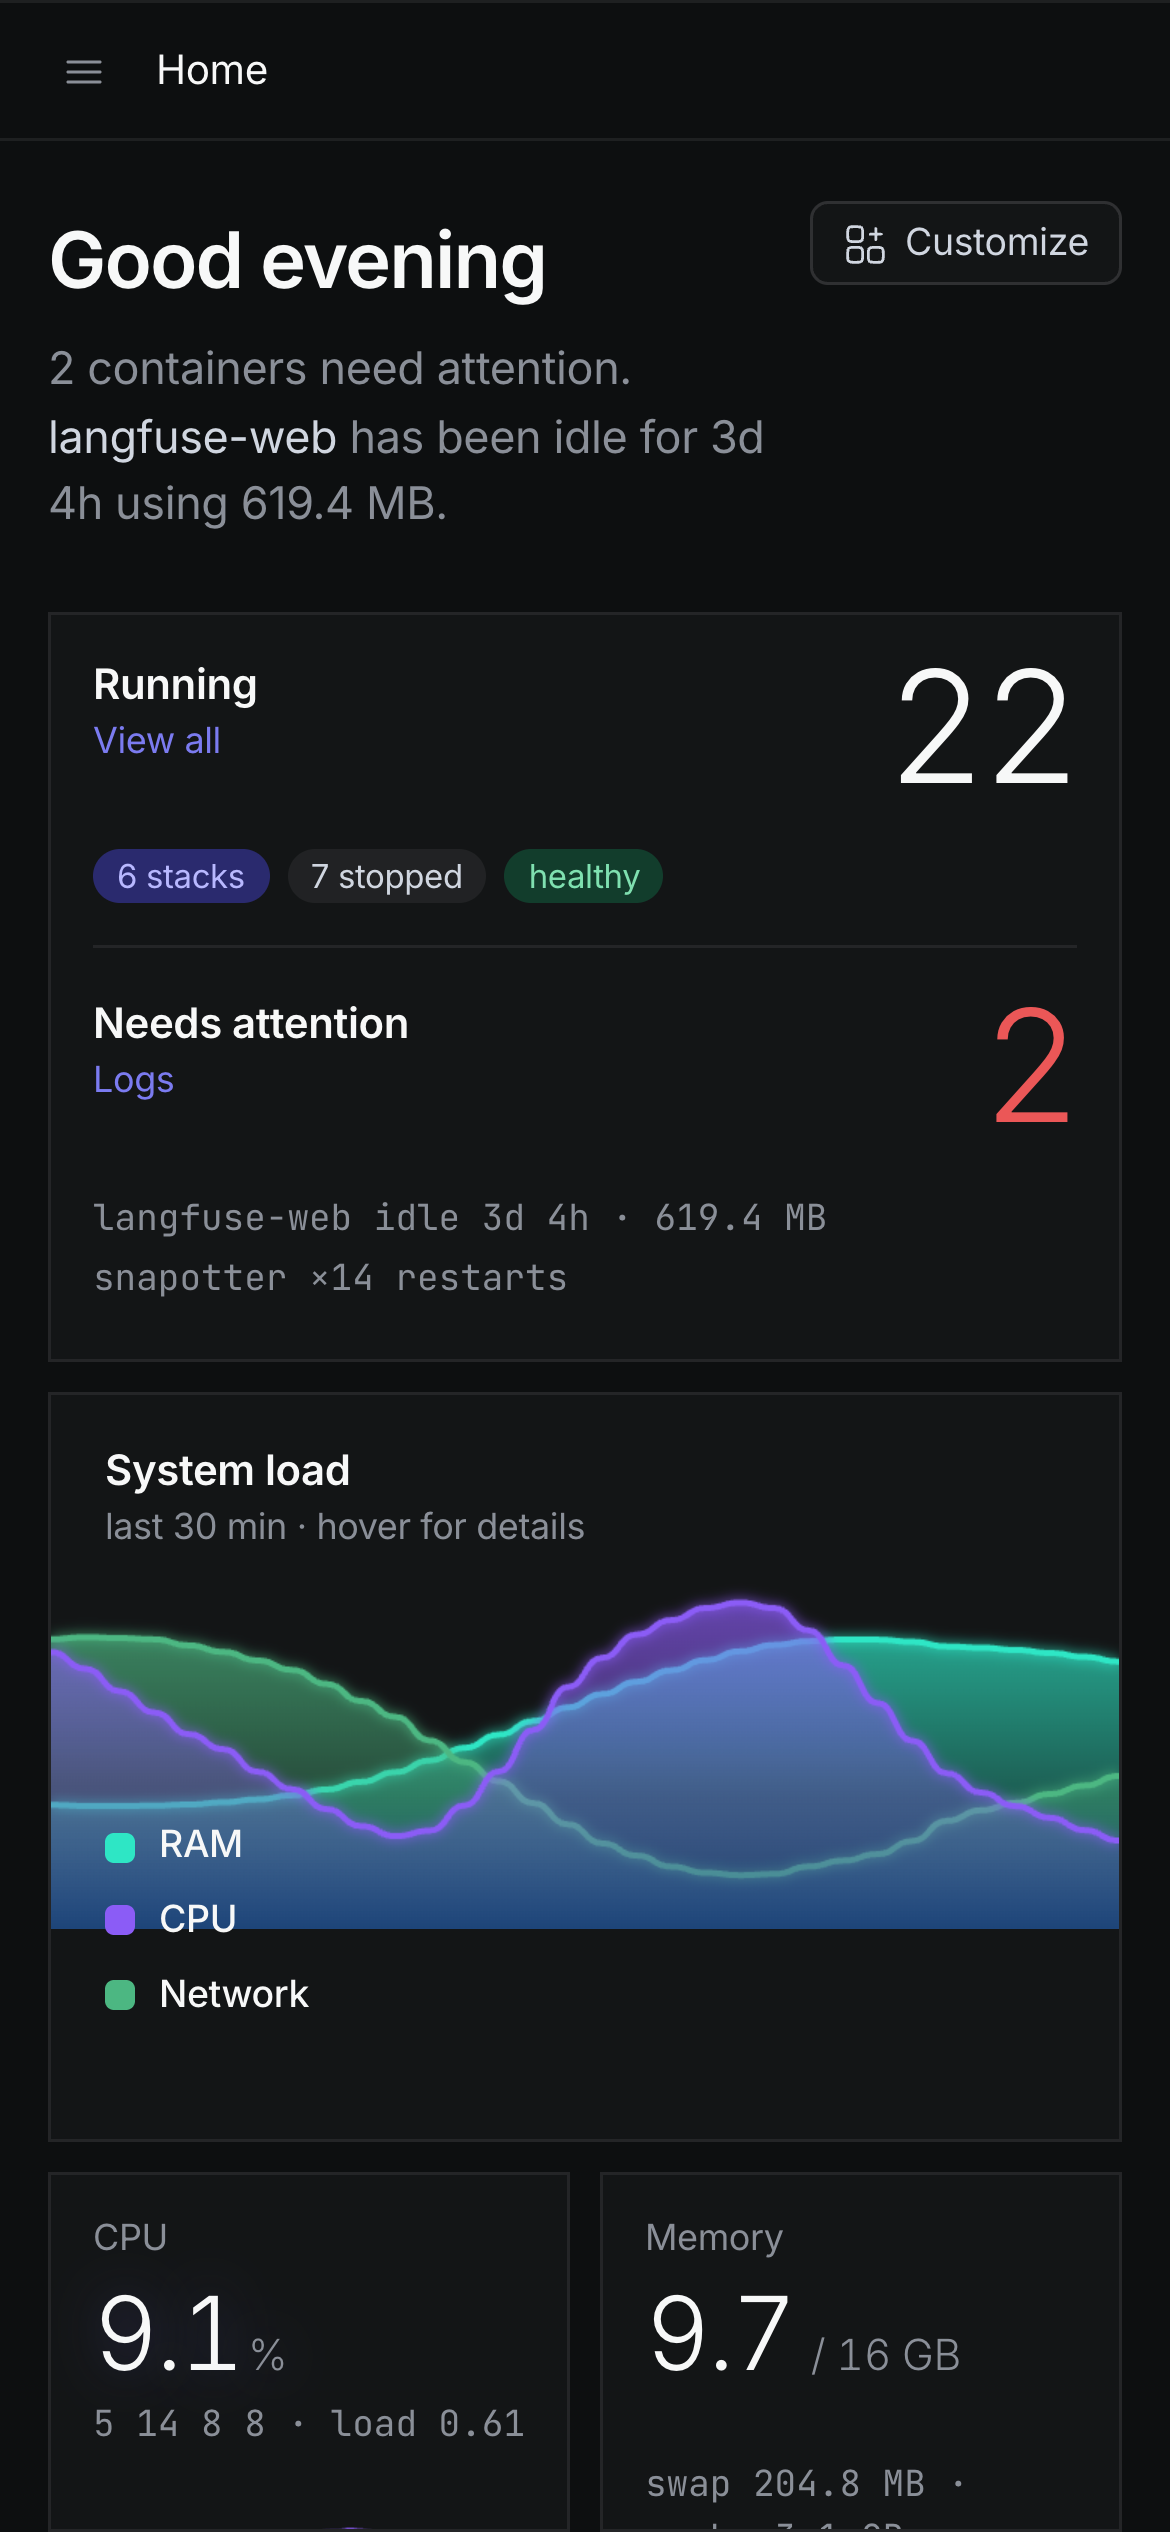
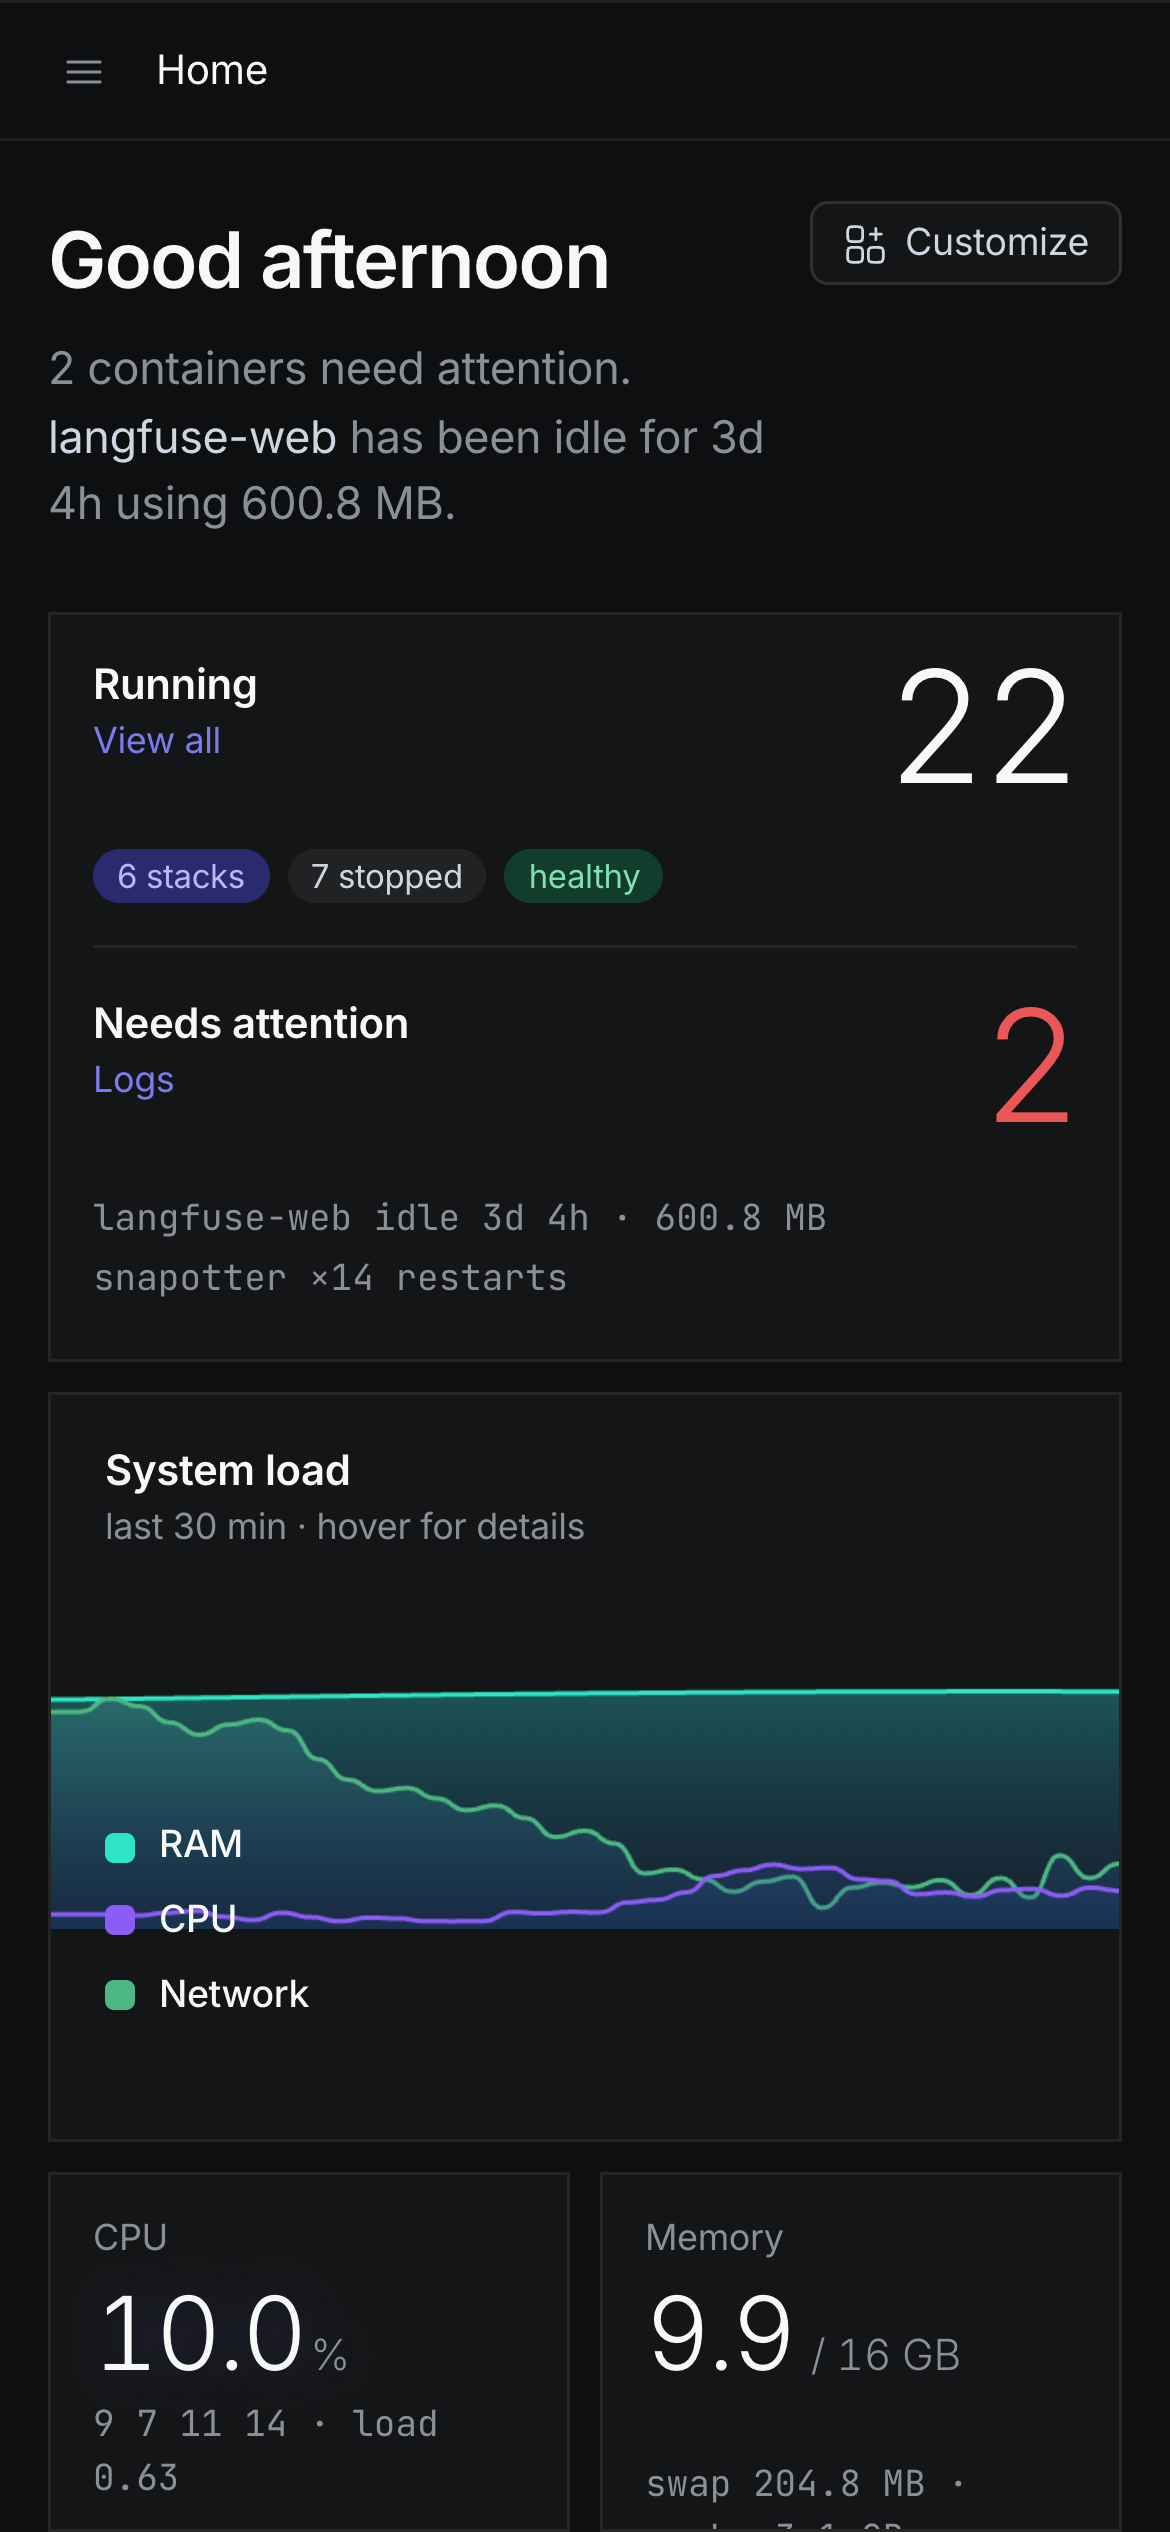
Revert chart restyle; add System load preview image to README

diff --git a/web/src/widgets/ui.ts b/web/src/widgets/ui.ts
@@ -93,15 +93,6 @@ function downsample(a: number[], n: number) {
   return out;
 }
 
-// Centered moving average; keeps the length so the x axis is unchanged.
-function smooth(a: number[], r: number) {
-  return a.map((_, i) => {
-    let s = 0, c = 0;
-    for (let j = Math.max(0, i - r); j <= Math.min(a.length - 1, i + r); j++) { s += a[j]; c++; }
-    return s / c;
-  });
-}
-
 // ---------- sparkline (small tiles) ----------
 export function sparkline(parent: HTMLElement, o: { color?: string; height?: number; max?: number; points?: number } = {}) {
   const { ctx, size, c } = canvas(parent, o.height ?? 30);
@@ -137,31 +128,23 @@ export function area(parent: HTMLElement, o: { max?: number; points?: number; tr
     const { w, h: H } = size();
     ctx.clearRect(0, 0, w, H);
     if (!series.length) return;
-    const n = Math.min(o.points ?? 32, Math.max(...series.map((s) => s.data.length)));
+    const n = Math.min(o.points ?? 48, Math.max(...series.map((s) => s.data.length)));
     if (n < 2) return;
-    const ds = series.map((s) => smooth(downsample(s.data, n), Math.max(1, Math.round(n / 6))));
+    const ds = series.map((s) => downsample(s.data, n));
+    const max = o.max ?? Math.max(1, ...ds.flat()) * 1.25;
     const top = 50;
-    // Each series gets its own range so a steady 60% RAM doesn't flatten a
-    // 4% CPU line; exact values are in the trend card.
-    const ys = ds.map((d, k) => {
-      const lo = Math.min(...d), hi = Math.max(...d), span = Math.max(hi - lo, hi * 0.15, 1e-9);
-      return (v: number) => { const f = 0.32 - k * 0.09 + 0.62 * ((v - lo) / span); return H - f * (H - top); };
-    });
     // Draw the largest series first so smaller ones stay visible on top.
     const mean = (d: number[]) => d.reduce((a, b) => a + b, 0) / (d.length || 1);
     const order = ds.map((_, i) => i).sort((a, b) => mean(ds[b]) - mean(ds[a]));
     order.forEach((si) => {
       const d = ds[si];
       const col = series[si].color;
-      const pts = d.map((v, i) => [(i / (d.length - 1)) * w, ys[si](v)] as [number, number]);
-      const peak = Math.min(...pts.map((p) => p[1]));
-      const g = ctx.createLinearGradient(0, peak, 0, H);
-      g.addColorStop(0, col + "c8"); g.addColorStop(0.55, col + "66"); g.addColorStop(1, theme.blue + "88");
+      const pts = d.map((v, i) => [(i / (d.length - 1)) * w, H - (v / max) * (H - top)] as [number, number]);
+      const g = ctx.createLinearGradient(0, top, 0, H);
+      g.addColorStop(0, col + "b0"); g.addColorStop(1, theme.blue + "40");
       ctx.beginPath(); smoothPath(ctx, pts); ctx.lineTo(w, H); ctx.lineTo(0, H); ctx.closePath();
-      ctx.globalAlpha = 0.85; ctx.fillStyle = g; ctx.fill(); ctx.globalAlpha = 1;
-      ctx.save(); ctx.shadowColor = col; ctx.shadowBlur = 8;
-      ctx.beginPath(); smoothPath(ctx, pts); ctx.strokeStyle = col; ctx.lineWidth = 2; ctx.lineJoin = "round"; ctx.stroke();
-      ctx.restore();
+      ctx.globalAlpha = 0.8; ctx.fillStyle = g; ctx.fill(); ctx.globalAlpha = 1;
+      ctx.beginPath(); smoothPath(ctx, pts); ctx.strokeStyle = col; ctx.lineWidth = 1.5; ctx.stroke();
     });
     if (hover != null) {
       const x = hover * w;
@@ -169,7 +152,7 @@ export function area(parent: HTMLElement, o: { max?: number; points?: number; tr
       ctx.beginPath(); ctx.moveTo(x, 18); ctx.lineTo(x, H - 6); ctx.stroke(); ctx.setLineDash([]);
       const i = Math.round(hover * (n - 1));
       ds.forEach((d, si) => {
-        const y = ys[si](d[i]);
+        const y = H - (d[i] / max) * (H - top);
         ctx.beginPath(); ctx.arc(x, y, 3.5, 0, Math.PI * 2); ctx.fillStyle = "#fff"; ctx.fill();
         ctx.lineWidth = 2; ctx.strokeStyle = series[si].color; ctx.stroke();
       });

diff --git a/server/src/demo.ts b/server/src/demo.ts
@@ -13,15 +13,15 @@ let kwh = 1.84, rxToday = 4.1 * GB, txToday = 0.62 * GB;
 
 export function demoStats(): Stats {
   t++;
-  const cpu = Math.max(2, 9 + 5 * wave(28) + 9 * Math.max(0, wave(17, 1)) ** 2 + noise(3));
+  const cpu = Math.max(2, 9 + 6 * wave(90) + 10 * Math.max(0, wave(37, 1)) ** 4 + noise(3));
   const watts = 24 + cpu * 0.42 + noise(1.5);
-  const rx = Math.max(0, 900e3 + 650e3 * wave(36, 3.6) + noise(300e3));
+  const rx = Math.max(0, 900e3 + 700e3 * wave(60, 2) + noise(300e3));
   const tx = Math.max(0, 120e3 + 80e3 * wave(45) + noise(40e3));
   kwh += (watts * 2) / 3600 / 1000; rxToday += rx * 2; txToday += tx * 2;
   return {
     t: Date.now(),
     cpu: { total: cpu, cores: [0, 1, 2, 3].map((i) => Math.max(0, cpu + noise(8) + i)), temp: 44 + cpu * 0.35 + noise(1), load: [0.38 + cpu / 40, 0.41, 0.36] },
-    mem: { total: 16 * GB, used: (9.6 + 0.6 * wave(44, 1.8)) * GB, cached: 3.1 * GB, swapTotal: 4 * GB, swapUsed: 0.2 * GB },
+    mem: { total: 16 * GB, used: (9.6 + 0.3 * wave(120)) * GB, cached: 3.1 * GB, swapTotal: 4 * GB, swapUsed: 0.2 * GB },
     uptime: 23 * 86400 + 4 * 3600 + t * 2,
     net: { rx, tx, rxToday, txToday },
     disks: [{ mount: "/", total: 476 * GB, used: 371 * GB }, { mount: "/mnt/data", total: 3.6 * 1024 * GB, used: 1.9 * 1024 * GB }],

diff --git a/README.md b/README.md
@@ -23,6 +23,10 @@
   <img src="docs/screenshots/home.png" alt="HarborOS home dashboard: sidebar with apps and status dots, system load chart, CPU, memory, power, network, disk and savings tiles" width="100%">
 </p>
 
+<p align="center">
+  <img src="docs/screenshots/system-load.png" alt="System load chart with layered RAM, CPU and network areas and the trend analyzer card" width="100%">
+</p>
+
 <p align="center"><sub>Screenshots use the built-in demo mode (<code>HARBOR_DEMO=1</code>), so the numbers are simulated.</sub></p>
 
 ---
